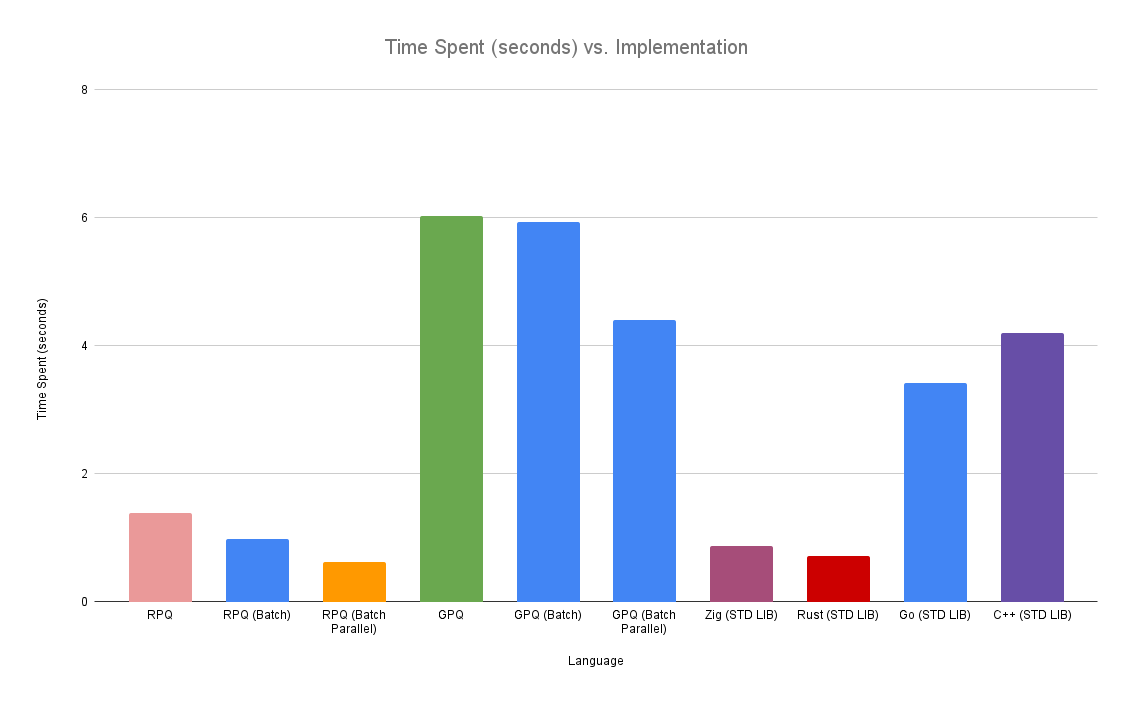
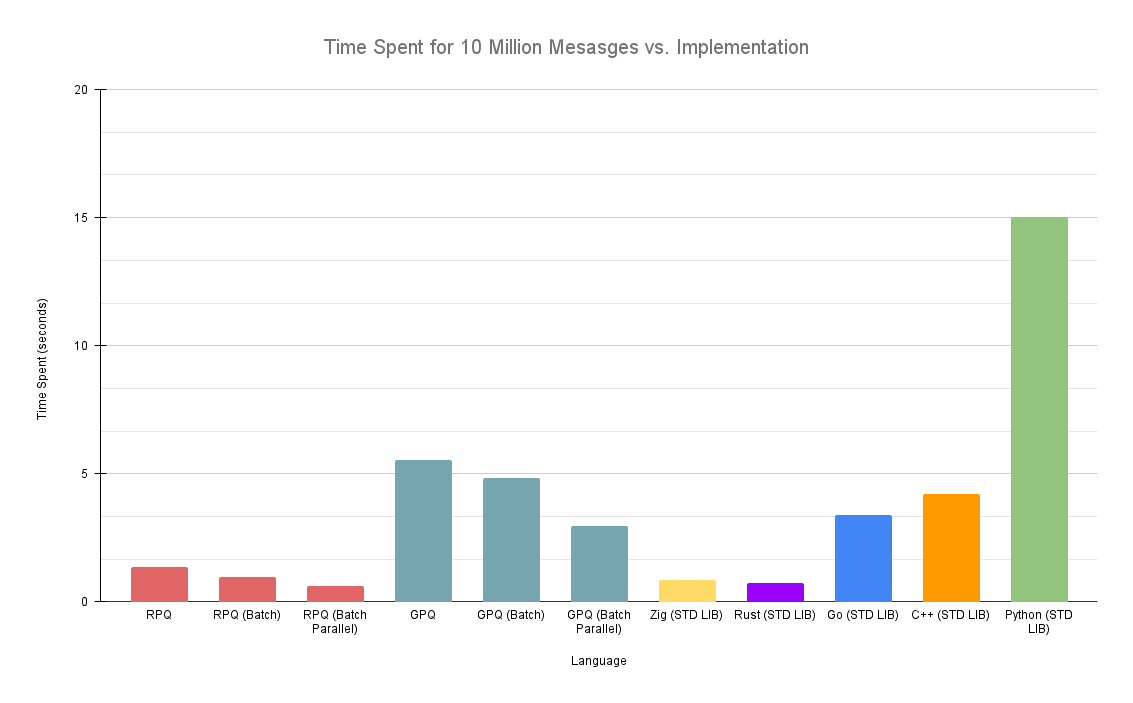
Bump versions and add more tests

diff --git a/gpq-batch-parallel/main.go b/gpq-batch-parallel/main.go
@@ -4,6 +4,8 @@ import (
 	"fmt"
 	"log"
 	_ "net/http/pprof"
+	"os"
+	"runtime/pprof"
 	"sync"
 	"time"
 
@@ -12,27 +14,25 @@ import (
 )
 
 func main() {
-	/*
-		// Create a pprof file
-		f, err := os.Create("profile.pprof")
-		if err != nil {
-			log.Fatal(err)
-		}
-		defer f.Close()
+	// Create a pprof file
+	f, err := os.Create("profile.pprof")
+	if err != nil {
+		log.Fatal(err)
+	}
+	defer f.Close()
 
-		// Start CPU profiling
-		err = pprof.StartCPUProfile(f)
-		if err != nil {
-			log.Fatal(err)
-		}
-		defer pprof.StopCPUProfile()
-	*/
+	// Start CPU profiling
+	err = pprof.StartCPUProfile(f)
+	if err != nil {
+		log.Fatal(err)
+	}
+	defer pprof.StopCPUProfile()
 
 	var total uint = 10_000_000
-	var MaxPriority uint = 100
-	var batchSize uint = 10_000
+	var MaxPriority uint = 10
+	var batchSize uint = 100_000
 
-	defaultMessageOptions := schema.EnQueueOptions{
+	defaultMessageOptions := schema.EnqueueOptions{
 		ShouldEscalate: false,
 		EscalationRate: time.Duration(time.Second),
 		CanTimeout:     false,
@@ -63,38 +63,34 @@ func main() {
 
 	timer := time.Now()
 
-	for i := 0; i < 5; i++ {
-		wg.Add(1)
-		go func() {
-			defer wg.Done()
-			for i := uint(0); i < (total/batchSize)/5; i++ {
-				var miniBatch []schema.Item[uint]
-				for j := uint(0); j < batchSize; j++ {
-					p := i % MaxPriority
-					item := schema.NewItem(p, i, defaultMessageOptions)
-					miniBatch = append(miniBatch, item)
-				}
-
-				err := queue.EnqueueBatch(miniBatch)
-				if err != nil {
-					log.Fatalln(err)
-				}
+	wg.Add(1)
+	go func() {
+		defer wg.Done()
+		for i := uint(0); i < (total / batchSize); i++ {
+			var miniBatch []schema.Item[uint]
+			for j := uint(0); j < batchSize; j++ {
+				p := i % MaxPriority
+				item := schema.NewItem(p, i, defaultMessageOptions)
+				miniBatch = append(miniBatch, item)
 			}
-		}()
-	}
 
-	for i := 0; i < 1; i++ {
-		wg.Add(1)
-		go func() {
-			defer wg.Done()
-			for i := uint(0); i < (total/batchSize)/1; i++ {
-				_, err := queue.DequeueBatch(batchSize)
-				if err != nil {
-					i--
-				}
+			err := queue.EnqueueBatch(miniBatch)
+			if err != nil {
+				log.Fatalln(err)
 			}
-		}()
-	}
+		}
+	}()
+
+	wg.Add(1)
+	go func() {
+		defer wg.Done()
+		for i := uint(0); i < (total/batchSize)/1; i++ {
+			_, err := queue.DequeueBatch(batchSize)
+			if err != nil {
+				i--
+			}
+		}
+	}()
 
 	wg.Wait()
 	receivedTime := time.Since(timer)

diff --git a/python/main.py b/python/main.py
@@ -1,0 +1,33 @@
+from queue import PriorityQueue, Empty
+import time
+
+
+def main():
+
+    queue = PriorityQueue()
+    message_count = 10_000_000
+
+    start_insert_time = time.time()
+    for i in range(message_count):
+        queue.put(i)
+
+    end_insert_time = time.time()
+
+    start_fetch_time = time.time()
+    for i in range(message_count):
+        try:
+            queue.get()
+        except Empty as e:
+            print("Queue is empty")
+            break
+    end_fetch_time = time.time()
+
+    insertion_time = end_insert_time - start_insert_time
+    fetch_time = end_fetch_time - start_fetch_time
+
+    print(f"Insertion Time: {insertion_time}")
+    print(f"Fetch Time: {fetch_time}")
+    print(f"Total Time: {fetch_time+insertion_time}")
+
+
+main()

diff --git a/rpq-batch/src/main.rs b/rpq-batch/src/main.rs
@@ -37,7 +37,7 @@ async fn main() {
     let send_timer = std::time::Instant::now();
     for i in 0..message_count / batch_size {
         let mut items = Vec::new();
-        for j in 0..batch_size {
+        for _j in 0..batch_size {
             let item = Item::new(i % 10, i, false, None, false, Some(Duration::seconds(5)));
             items.push(item);
         }

diff --git a/gpq-batch/main.go b/gpq-batch/main.go
@@ -16,7 +16,7 @@ func main() {
 	var MaxPriority uint = 100
 	var batchSize uint = 10_000
 
-	defaultMessageOptions := schema.EnQueueOptions{
+	defaultMessageOptions := schema.EnqueueOptions{
 		ShouldEscalate: false,
 		EscalationRate: time.Duration(time.Second),
 		CanTimeout:     false,

diff --git a/gpq/main.go b/gpq/main.go
@@ -15,7 +15,7 @@ func main() {
 	var total uint = 10_000_000
 	var MaxPriority uint = 100
 
-	defaultMessageOptions := schema.EnQueueOptions{
+	defaultMessageOptions := schema.EnqueueOptions{
 		ShouldEscalate: false,
 		EscalationRate: time.Duration(time.Second),
 		CanTimeout:     false,

diff --git a/README.md b/README.md
@@ -17,13 +17,14 @@ Language             | Time Spent (seconds)
 RPQ                  | 1.38
 RPQ (Batch)          | 0.98
 RPQ (Batch Parallel) | 0.62
-GPQ                  | 6.07
-GPQ (Batch)          | 5.93
-GPQ (Batch Parallel) | 4.12
+GPQ                  | 5.54
+GPQ (Batch)          | 4.83
+GPQ (Batch Parallel) | 2.98
 Zig (STD LIB)        | 0.87
 Rust (STD LIB)       | 0.72
 Go (STD LIB)         | 3.61
 C++ (STD LIB)        | 4.24
+Python (STD LIB)     | 15.03
 
 ## Features
 | Feature          | GPQ | RPQ | Go Heap | Zig Priority Queue | C++ Queue | Rust Binary Heap |
